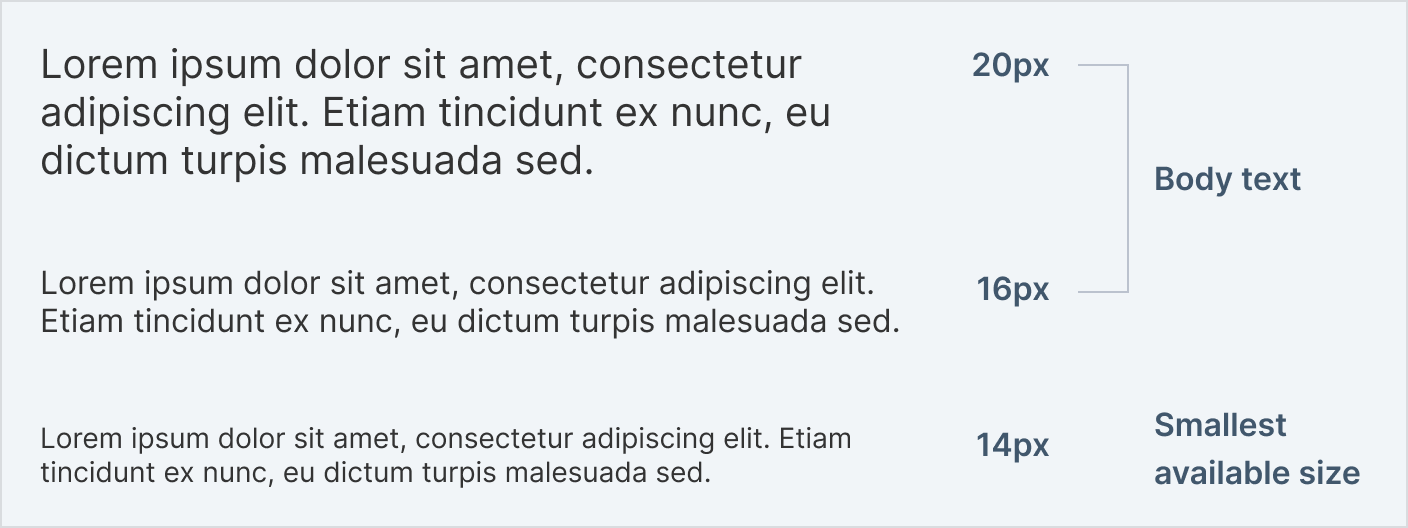
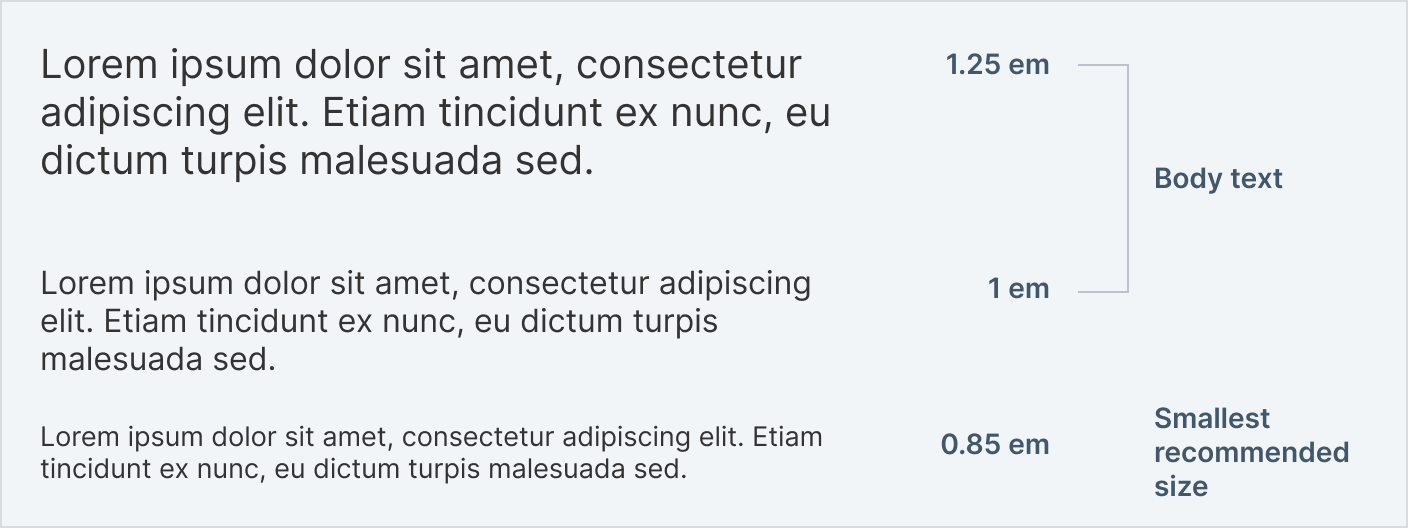
tweaks

diff --git a/posts/002-font-size.md b/posts/002-font-size.md
@@ -3,8 +3,10 @@ title: 002 - Use 16px or above for the body text
 tags: [UI, typography]
 ---
 
-In all browsers, the default font size is `16px` (or `1em`) which is the minimum size easy to read. There are many sites using `18px` or `20px` which is an even more legible text size. In any case, a website shouldn't have any text smaller than `14px`.
+The default font size on the web is `16px` (or `1em`) which is the minimum size for any text that must be easy to read. Long texts like posts or articles may be in `18px` or `20px` which is an even more legible text size.
 
 <!-- more -->
+
+Font sizes below `16px` can be used for short texts, like labels or buttons, but never lower than `13.5px` (or `0.85em`).
 
 ![Text size](/img/002-text-size.png)
